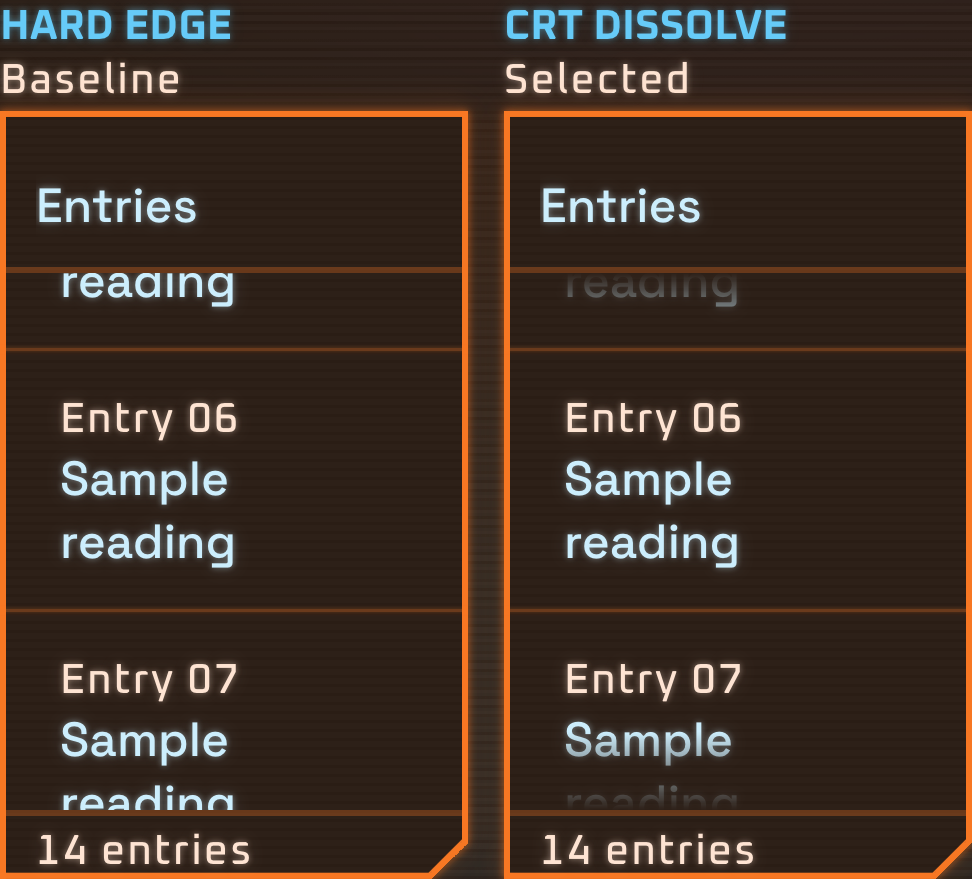
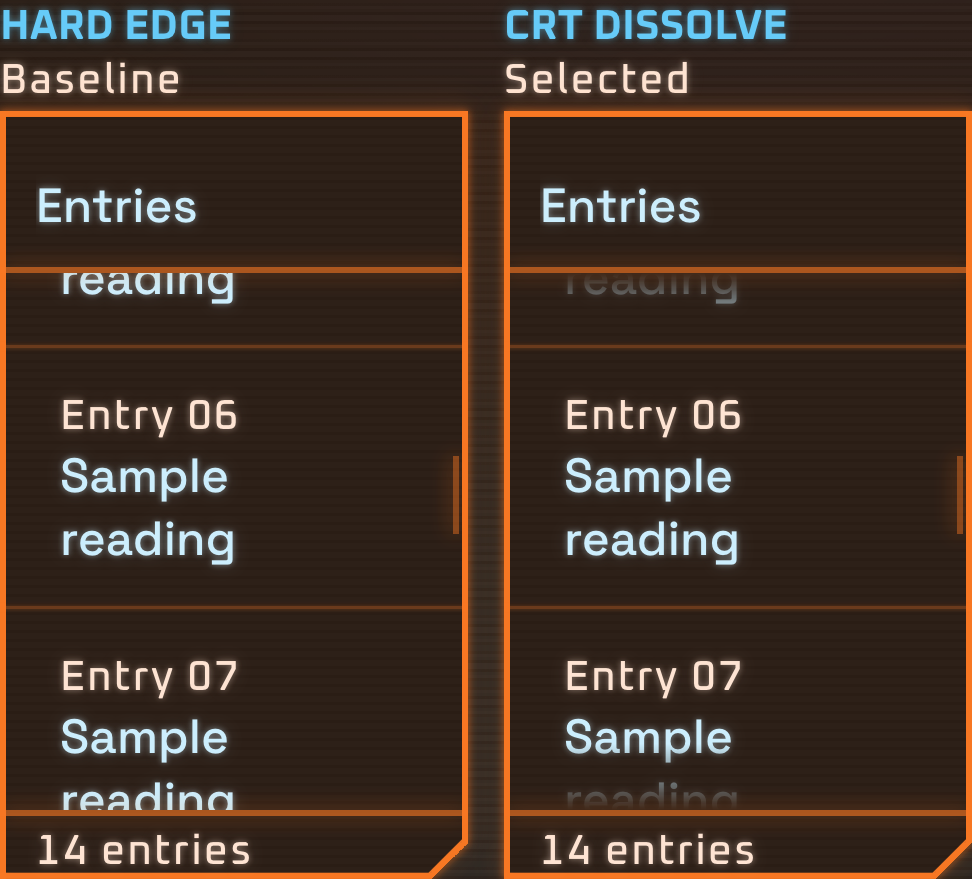
Shorten the CRT dissolve distance by fifteen percent

diff --git a/src/dev/gallery-motion.tsx b/src/dev/gallery-motion.tsx
@@ -13,8 +13,8 @@ import { galleryScrollSettleTime } from './gallery-scroll-settle-time'
 import './gallery-motion.css'
 
 const EFFECT_CLASSES = [...MOTION_PATTERNS.map(pattern => pattern.className), 'clr-phosphor-in', 'clr-scan--once']
-// The earlier source request specifies this preview depth. It is not a new app token.
-const DISSOLVE_REFERENCE_PX = 26
+// Owner review: 15% shorter than the earlier 26px reference, gallery-only.
+const DISSOLVE_PREVIEW_PX = 22.1
 const SCROLL_ROWS = Array.from({ length: 14 }, (_, index) => index + 1)
 
 function clearSamples(elements: (HTMLElement | null)[]) {
@@ -207,7 +207,7 @@ function ScrollComparison() {
         <p className="clr-text-data-xs">Move the slider to compare matching positions, or scroll each panel independently.</p>
         <Button variant="secondary" aria-pressed={holdGlow} onClick={() => setHoldGlow(value => !value)}>Hold glow for inspection</Button>
         <p className="clr-text-data-xs">Hold keeps the same edge glow visible for review. With Hold off, it lights during scrolling and settles afterward.</p>
-        <div ref={pair} className="clr-gallery-motion__scroll-pair" style={{ '--gallery-dissolve-depth': String(DISSOLVE_REFERENCE_PX) + 'px' } as CSSProperties}>
+        <div ref={pair} className="clr-gallery-motion__scroll-pair" style={{ '--gallery-dissolve-depth': String(DISSOLVE_PREVIEW_PX) + 'px' } as CSSProperties}>
           {(['hard', 'dissolve'] as const).map(kind => <HeadingSection key={kind}>
             <Heading className="clr-gallery-motion__sample-title">{kind === 'hard' ? 'Hard edge' : 'CRT dissolve'}</Heading>
             <p className="clr-text-data-xs">{kind === 'hard' ? 'Baseline' : 'Selected'}</p>

diff --git a/src/dev/gallery-motion.css b/src/dev/gallery-motion.css
@@ -12,7 +12,7 @@
 .clr-gallery-motion__scroll-stage { height: calc(var(--spacing-1400) * 2); }
 .clr-gallery-motion__scroll-stage > div { height: 100%; }
 .clr-gallery-motion__scroll-body { padding: var(--gallery-dissolve-depth) var(--spacing-200); }
-/* Earlier 26px request, scoped only to the labelled gallery reference sample.
+/* Owner-tuned dissolve, scoped only to the labelled gallery sample.
    Current app ScrollRegion and its hard-edge contract remain untouched. */
 .clr-gallery-motion__dissolve {
   mask-image: linear-gradient(to bottom, transparent 0, var(--ink) var(--gallery-dissolve-depth), var(--ink) calc(100% - var(--gallery-dissolve-depth)), transparent 100%);

diff --git a/docs/journal/2026-10-30.md b/docs/journal/2026-10-30.md
@@ -463,3 +463,14 @@ The unchanged audit consumer now passes38/38. Full local Vitest passes5873/5873 
   verified in Eric's actual open browser: stage token420ms, both streaks at0.7
   opacity with the existing7px role shadow. Left Hold enabled at40% for review.
   Vercel deployment succeeded; remote required checks continue on the PR.
+
+### Library598 — shorten the CRT dissolve
+
+- Eric clarified that the requested15% reduction applies to the CRT dissolve
+  distance, not glow blur. Updated the gallery depth from26px to22.1px and its
+  matching content insets. Glow remains the existing7px role shadow at0.7.
+  Recorded the visual refinement alongside the historical26px reference.
+- Build/typecheck, design lint,10 focused unit tests and both relevant built
+  browser cases pass (320/390px, four skins, linked scrolling, sustained glow,
+  Hold and reduced motion). Refreshed comparison captures. The first browser
+  attempt found the previous turn's server stopped; started it before rerunning.

diff --git a/docs/design/library/README.md b/docs/design/library/README.md
@@ -20,7 +20,8 @@ existing visual choice. Material proposed changes receive their own review.
   Carry the trigger, state sequence and reduced-motion outcome through the
   ordinary visual preview and requirements handoff when motion is involved.
 - The Motion view also compares the actual hard-edge ScrollRegion with an
-  explicitly scoped 26 CSS pixel dissolve reference. Both use the same real component
+  scoped dissolve preview (22.1 CSS pixels after the owner's 15% reduction).
+  Both use the same real component
   and content. Eric selected dissolve with visible glow; its final appearance
   and versioned foundation integration remain open. A gallery-only adapter
   preserves the token's milliseconds when compiled CSS uses seconds (#600).

diff --git a/docs/design/library/evidence/motion/README.md b/docs/design/library/evidence/motion/README.md
@@ -17,7 +17,8 @@ CSS explicitly specify hard clipping with transient edge streaks and no fade.
 These are different source stages, not two names for the same effect.
 
 The paired panels use the actual ScrollRegion, identical content and a linked
-position control. Only the reference panel has a scoped 26 CSS pixel mask.
+position control. The dissolve started at the reference's 26 CSS pixels; Eric
+requested a 15% shorter dissolve, now 22.1 CSS pixels. The glow remains unchanged.
 The pinned layers and shared streaks remain outside that mask. Eric selected
 CRT dissolve with visible glow. Final appearance review and a versioned
 implementation with affected-screen verification remain open.
